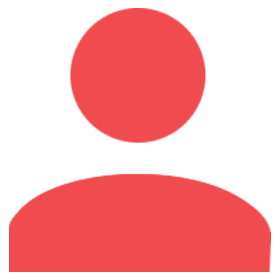
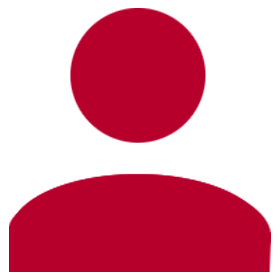
首页界面样式修改

diff --git a/src/views/home.vue b/src/views/home.vue
@@ -4,23 +4,12 @@
      :title="$t(title)" :left-options="{showBack}">
     </x-header>
     <div class="home-page">
-      <grid class="home-content">
-        <div @click="goSetAmt">
-          <grid-item :label="$t('Collection code')">
-            <img slot="icon" src="../assets/code-icon.png">
-          </grid-item>
-        </div>
-        <div @click="goTranSearch">
-          <grid-item :label="$t('Transaction inquiry')">
-            <img slot="icon" src="../assets/seach-icon.png">
-          </grid-item>
-        </div>
-        <div @click="goUserInfo">
-          <grid-item :label="$t('Personal center')">
-            <img slot="icon" src="../assets/user-icon.png">
-          </grid-item>
-        </div>
-      </grid>
+     <div class="Total-revenue">
+       <p>今日总收入</p>
+       <p>86,628.03</p>
+       <P>共计<span>38</span>笔</P>
+     </div>
+
       <div v-if="pushList.length === 0">
         <divider>{{$t('Tran push no data')}}</divider>
       </div>
@@ -152,24 +141,31 @@ export default {
 </script>
 
 <style>
-/*首页导航栏*/
-.home-content {
-  background: #fff;
-  border: none;
-  margin-bottom: 28px;
+/*今日总收入*/
+.Total-revenue {
+  width: 100%;
+  min-height: 150px;
+  color: #fff;
+  text-align: center;
+  background: linear-gradient(to bottom, #B6002A, #f7393f);
 }
 
-/*首页导航按钮边框删除*/
-.home-page .weui-grids:before,
-.home-page .weui-grids:after,
-.home-content .weui-grid:before,
-.home-content .weui-grid:after {
-  border: none;
+.Total-revenue p:nth-child(1),
+.Total-revenue p:nth-child(3) {
+  font-size: 12px;
 }
 
-/*首页导航按文字大小设置*/
-.home-content .weui-grid__icon + .weui-grid__label {
-  font-size: 13px !important;
+.Total-revenue p:nth-child(1) {
+  padding-top: 24px;
+}
+
+.Total-revenue p:nth-child(2) {
+  font-size: 36px;
+}
+
+.Total-revenue span {
+  margin: 0 8px;
+  font-size: 18px;
 }
 
 /*交易通知 宽度 圆角设置*/
@@ -198,7 +194,7 @@ export default {
 /*价格设置*/
 .price {
   font-size: 20px;
-  color: red;
+  color: #B6002A;
 }
 
 /*交易通知边框删除*/
@@ -219,7 +215,7 @@ export default {
   margin-top: -8px;
   padding: 10px 0;
   font-size: 12px;
-  color: #5799f9;
+  color: #B6002A;
   text-align: center;
   background: #fff;
   border-top: 1px solid #eee;
